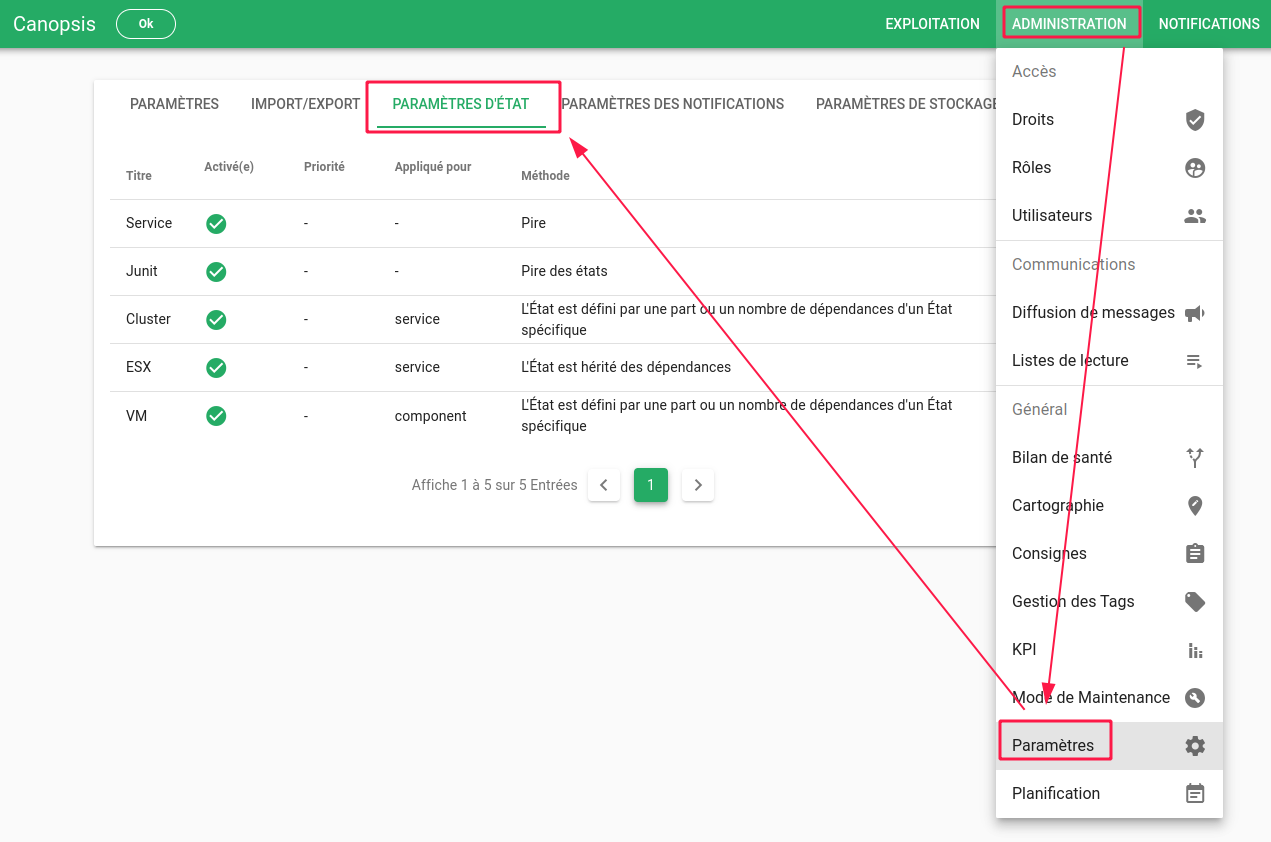
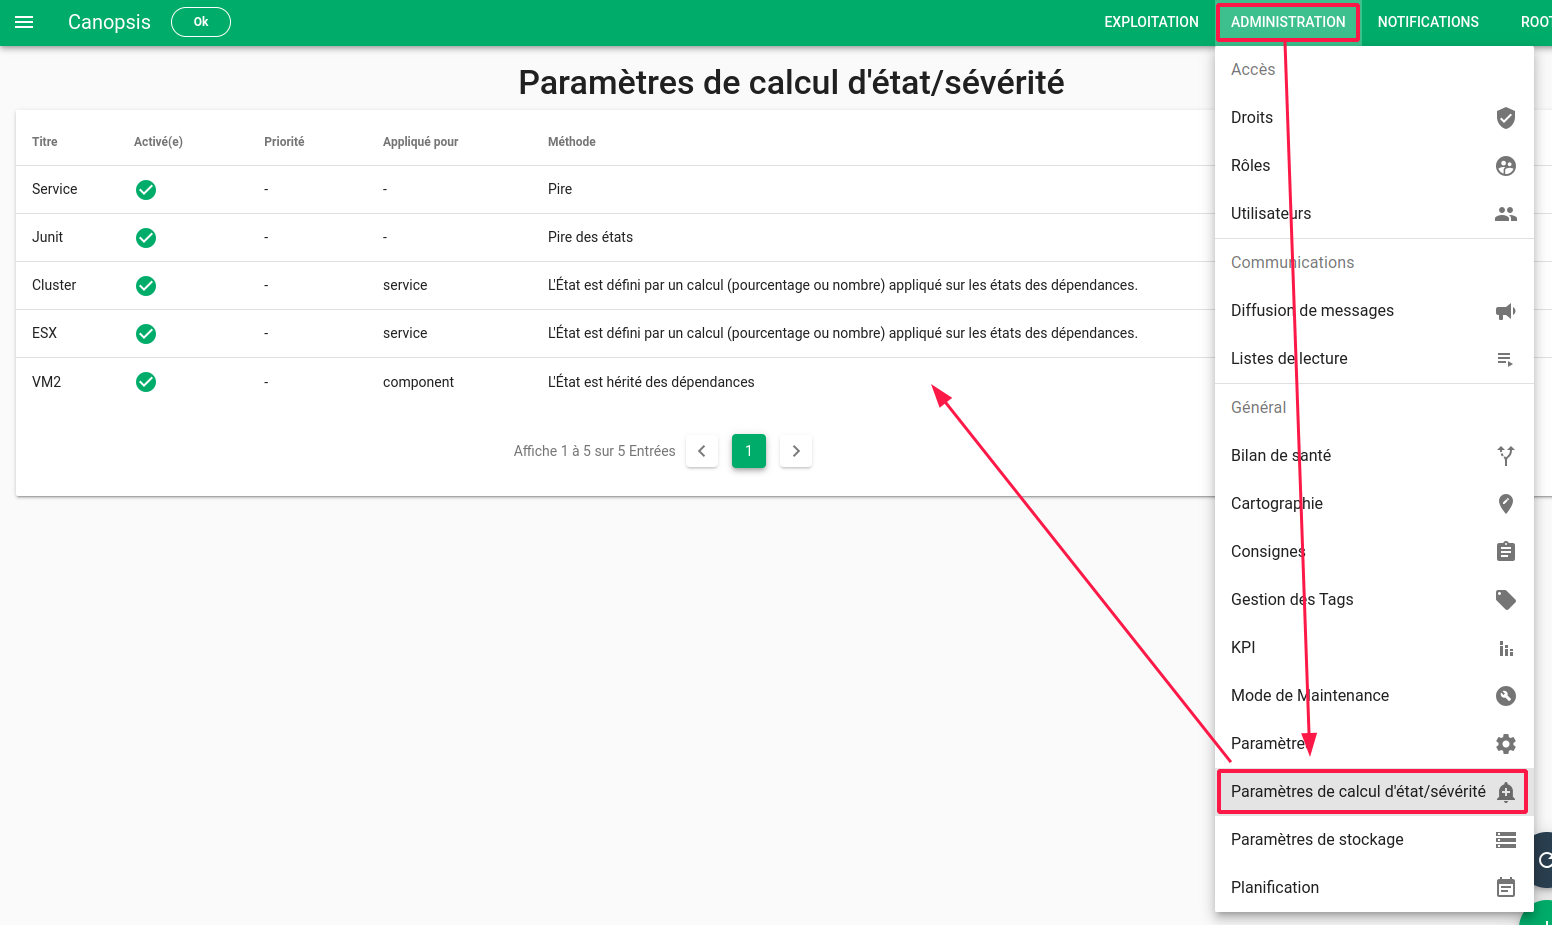
Maj screen + texte avec revue traduction

diff --git a/community/sources/docs/fr/guide-utilisation/services/index.md b/community/sources/docs/fr/guide-utilisation/services/index.md
@@ -83,13 +83,13 @@ Lorsqu’aucune règle ne s'applique, l'état du service vaut le pire état de s
 
 ### Ajouter des conditions
 
-#### L'état est hérité des dépendances
+#### L'État est hérité des dépendances
 
 |                             | Description                                                  |
 | --------------------------- | ------------------------------------------------------------ |
 | **Modèles des dépendances** | Quelle(s) dépendance(s) de l'entité ciblée sera(ont) responsable(s) de l'état final ?<br />Si plusieurs dépendances sont sélectionnées par me modèle alors le pire état de celles-ci sera utilisé. |
 
-#### L'état est défini par une part ou un nombre de dépendances d'un état spécifique
+#### L'État est défini par un calcul (pourcentage ou nombre) appliqué sur les états des dépendances
 
 Dans ce mode, il est possible de définir l'état d'un service à partir de conditions basées sur un pourcentage ou un nombre d'états des dépendances du service.
 

diff --git a/community/sources/docs/fr/guide-utilisation/services/cas-d-usage-complet.md b/community/sources/docs/fr/guide-utilisation/services/cas-d-usage-complet.md
@@ -1,10 +1,6 @@
 # Cas d'usage de méthode de calcul d'état
 
-
-
 Pour ce cas d'usage, nous considérons le schéma suivant : 
-
-
 
 ```mermaid
 flowchart TD
@@ -21,15 +17,12 @@ flowchart TD
     Ping2([check_ping]) --> ESX2
 ```
 
-
-
 4 étages de dépendances sont visibles :
 
 1. Des ressources dont l'état est piloté par des événements entrants dans Canopsis
 2. Des composants `VM[1-3]`
 3. Des Services `ESX[1-2]` hébergeant des VM
 4. D'un Service `Cluster` composé de 2 ESX
-
 
 
 Voici les règles de gestions que nous souhaitons implémenter :
@@ -90,7 +83,7 @@ Nous créons une règle de calcul d'état dont les caractéristiques sont :
 
 * Appliquée sur le type d'entité `Service`
 
-* L'état est hérité des dépendances
+* L'état est défini par un calcul
 
   ![services-calcul-etat8](./img/services-calcul-etat8.png)
 
